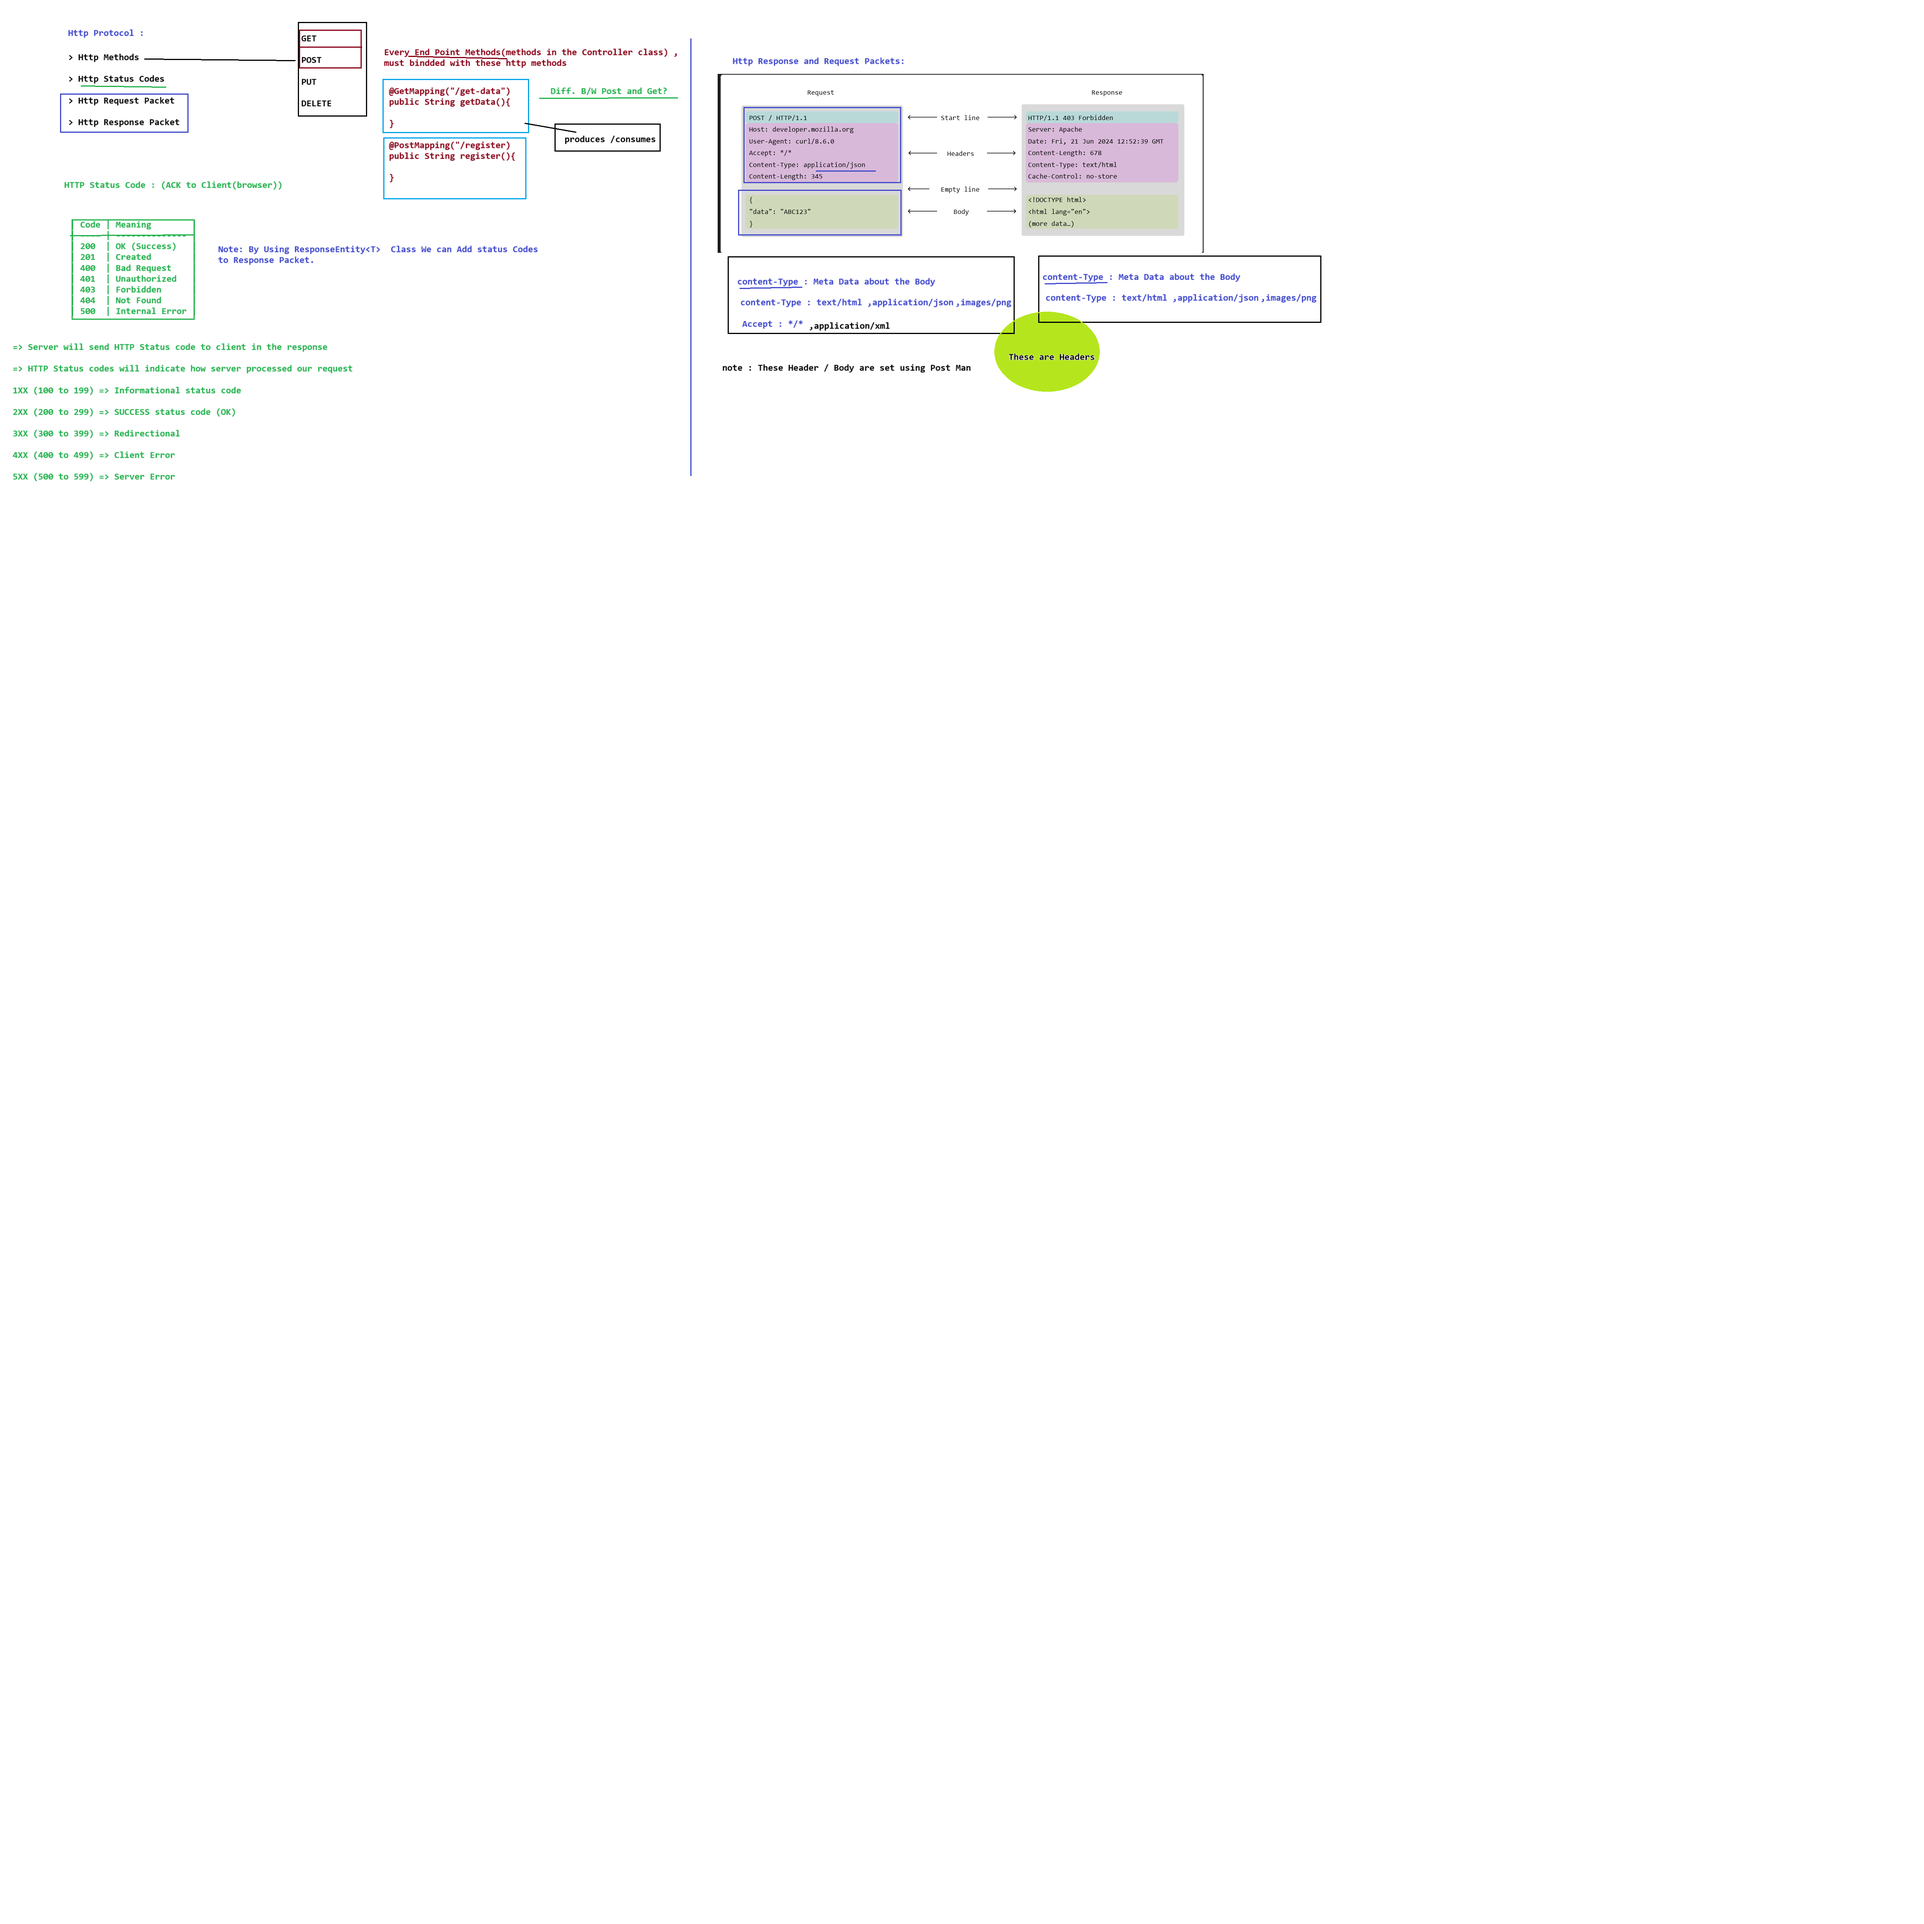
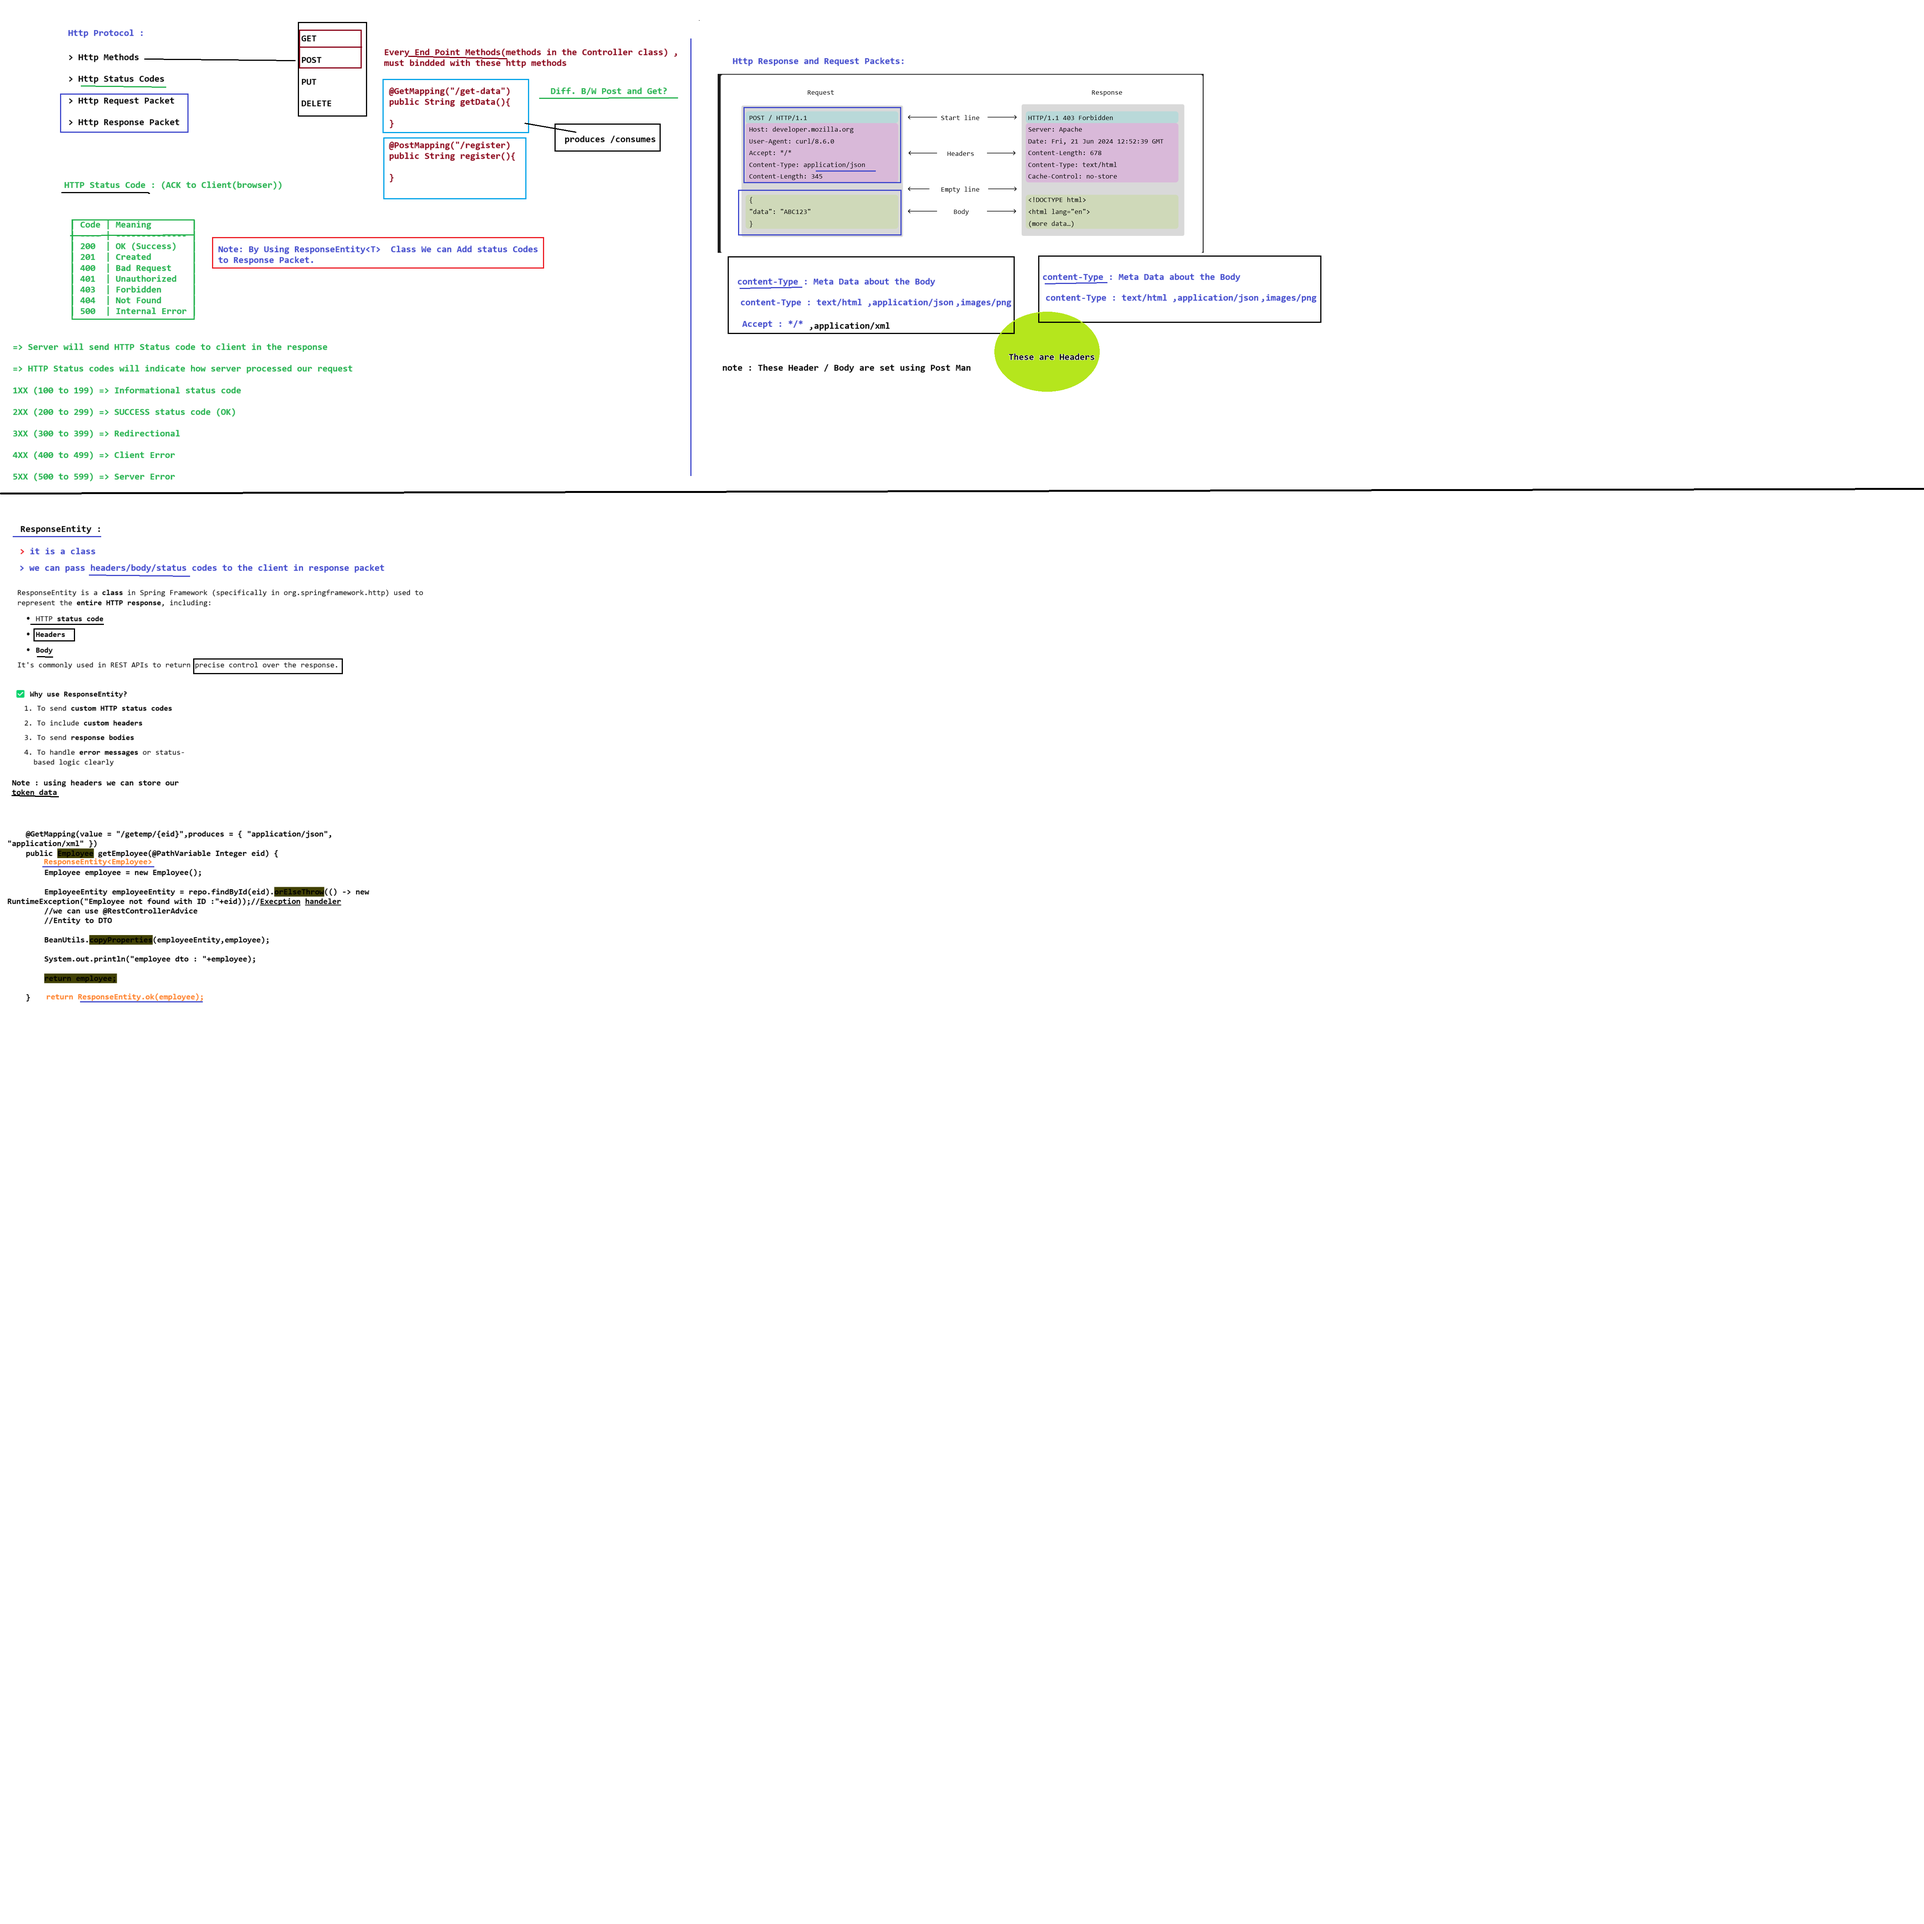
ResponseEntity committed

Changed region(s): [[0.0, 0.4056, 0.156, 0.5304], [0.0, 0.2808, 0.0936, 0.4056]]

diff --git a/SpringRest-crudapp2/src/main/java/com/ashi/controller/EmployeeController.java b/SpringRest-crudapp2/src/main/java/com/ashi/controller/EmployeeController.java
@@ -4,10 +4,13 @@ import java.util.Optional;
 
 import org.springframework.beans.BeanUtils;
 import org.springframework.beans.factory.annotation.Autowired;
+import org.springframework.http.ResponseEntity;
+import org.springframework.web.bind.annotation.DeleteMapping;
 import org.springframework.web.bind.annotation.GetMapping;
 import org.springframework.web.bind.annotation.PathVariable;
 import org.springframework.web.bind.annotation.PostMapping;
 import org.springframework.web.bind.annotation.RequestBody;
+import org.springframework.web.bind.annotation.RequestMapping;
 import org.springframework.web.bind.annotation.RestController;
 
 import com.ashi.dto.response.Employee;
@@ -15,6 +18,7 @@ import com.ashi.model.EmployeeEntity;
 import com.ashi.repository.EmployeeRespository;
 
 @RestController
+@RequestMapping("/employee")
 public class EmployeeController {
 
 	@Autowired
@@ -39,7 +43,7 @@ public class EmployeeController {
 	
 	
 	@GetMapping(value = "/getemp/{eid}",produces = { "application/json", "application/xml" })
-	public Employee getEmployee(@PathVariable Integer eid) {
+	public ResponseEntity<Employee> getEmployee(@PathVariable Integer eid) {
 		
 		Employee employee = new Employee();
 		
@@ -51,9 +55,40 @@ public class EmployeeController {
 		
 		System.out.println("employee dto : "+employee);
 		
-		return employee;
+		return ResponseEntity.status(200).body(employee); //ok(body)
 		
 	}
+	
+	
+	//delete employee
+	
+	@DeleteMapping("/delete-emp/{eid}")
+	public ResponseEntity<String> deleteEmployee(@PathVariable Integer eid) {
+		
+		
+//		boolean status = repo.existsById(eid);
+//		if(status) {
+//
+//			repo.deleteById(eid);
+//			
+//			return ResponseEntity.ok("employee deleted with id : "+eid);
+//		}
+//		else {
+//			return ResponseEntity.status(404).body("employee not found with id : "+eid);
+//		}
+		
+		
+		EmployeeEntity employeeEntity = repo.findById(eid).orElseThrow(() -> new RuntimeException("Employee not found with ID :"+eid));
+		repo.deleteById(eid);
+		
+		return ResponseEntity.ok("employee deleted with id : "+employeeEntity.getEid());
+		
+		
+		
+	}
+	
+	
+	
 	
 
 }

diff --git a/SpringRest-crudapp2/src/main/java/com/ashi/controller/ResponseEntityController.java b/SpringRest-crudapp2/src/main/java/com/ashi/controller/ResponseEntityController.java
@@ -1,0 +1,82 @@
+package com.ashi.controller;
+
+
+import org.springframework.http.HttpHeaders;
+import org.springframework.http.ResponseEntity;
+import org.springframework.web.bind.annotation.GetMapping;
+import org.springframework.web.bind.annotation.RequestHeader;
+import org.springframework.web.bind.annotation.RequestMapping;
+import org.springframework.web.bind.annotation.RestController;
+
+@RestController
+@RequestMapping("/res")
+public class ResponseEntityController {
+	
+//	@GetMapping("/index")
+//	public String index() {
+//		return "index"; // it is not a view name
+//	}
+	
+	@GetMapping("/index")
+	public ResponseEntity<String> index() {
+		
+		//create object for response entity
+		
+	//	return new ResponseEntity<String>("index",HttpStatusCode.valueOf(201));//HttpStatus -> ENUM
+		
+		//builder pattern
+		/*
+		 * return ResponseEntity .status(HttpStatus.CREATED) //.status(201)
+		 * .body("index body page");
+		 */
+		
+		//ok status
+		return ResponseEntity.ok("index body page");
+	
+	}
+	
+	//headers used in downloades
+	
+	@GetMapping("/download")
+	public ResponseEntity<String> downloadFile() {
+		
+		HttpHeaders headers = new HttpHeaders();
+		headers.add("Content-Disposition", "attachment; filename=data.txt");
+		
+	    return ResponseEntity.ok()
+	        //.header("Content-Disposition", "attachment; filename=data.txt")
+	    		.headers(headers)
+	        .body("File content goes here");
+	}
+	
+
+	
+	@GetMapping("/read-header")
+	public ResponseEntity<String> readHeader(@RequestHeader("User-Agent") String userAgent) {
+	    return ResponseEntity.ok("Your browser is: " + userAgent);
+	}
+	
+	
+	//cashing -> storing data (@Cacheble(small)  and more advanced in redis(big application))
+	//we can set the headers to store the response(text/image/html ect) in cache
+	
+	
+	// //.header("Cache-Control", "public, max-age=60")
+	
+
+	
+	
+	
+	
+	
+	
+	
+	
+	
+	
+	
+	
+	
+	
+	
+}

diff --git a/SpringRest-crudapp2/src/main/java/com/ashi/exception/GlobalExceptionHandler.java b/SpringRest-crudapp2/src/main/java/com/ashi/exception/GlobalExceptionHandler.java
@@ -1,0 +1,40 @@
+package com.ashi.exception;
+
+import java.time.LocalDateTime;
+
+import org.springframework.http.ResponseEntity;
+import org.springframework.web.bind.annotation.ExceptionHandler;
+import org.springframework.web.bind.annotation.RestControllerAdvice;
+
+import com.ashi.dto.response.ErrorReponse;
+
+import jakarta.servlet.http.HttpServletRequest;
+
+@RestControllerAdvice
+public class GlobalExceptionHandler {
+
+//	@ExceptionHandler(RuntimeException.class)
+//	public ResponseEntity<String> handelingException(RuntimeException ex){
+//		
+//		String msg = ex.getMessage();
+//		return ResponseEntity.badRequest().body(msg);
+//		
+//	}
+
+	// now i am used ErrorReponse
+
+	@ExceptionHandler(RuntimeException.class)
+	public ResponseEntity<ErrorReponse> handelingException(RuntimeException ex,HttpServletRequest
+			req){
+		
+		   ErrorReponse errorBody = ErrorReponse.builder()
+				                     .errorMessage(ex.getMessage())
+				                      .timestamp(LocalDateTime.now())  
+				                      .path(req.getRequestURI())
+				                      .method(req.getMethod())
+				                     .build();
+		   
+		   return ResponseEntity.status(500).body(errorBody);
+	}
+
+}

diff --git a/SpringRest-crudapp2/src/main/java/com/ashi/dto/response/ErrorReponse.java b/SpringRest-crudapp2/src/main/java/com/ashi/dto/response/ErrorReponse.java
@@ -1,0 +1,28 @@
+package com.ashi.dto.response;
+
+import java.time.LocalDateTime;
+
+import lombok.AllArgsConstructor;
+import lombok.Builder;
+import lombok.Data;
+import lombok.NoArgsConstructor;
+
+@Data
+@AllArgsConstructor
+@NoArgsConstructor
+@Builder
+public class ErrorReponse {
+
+	private String errorMessage;
+
+	private LocalDateTime timestamp;
+
+	private String path;
+	
+	private String method;
+
+	
+	
+	
+
+}
